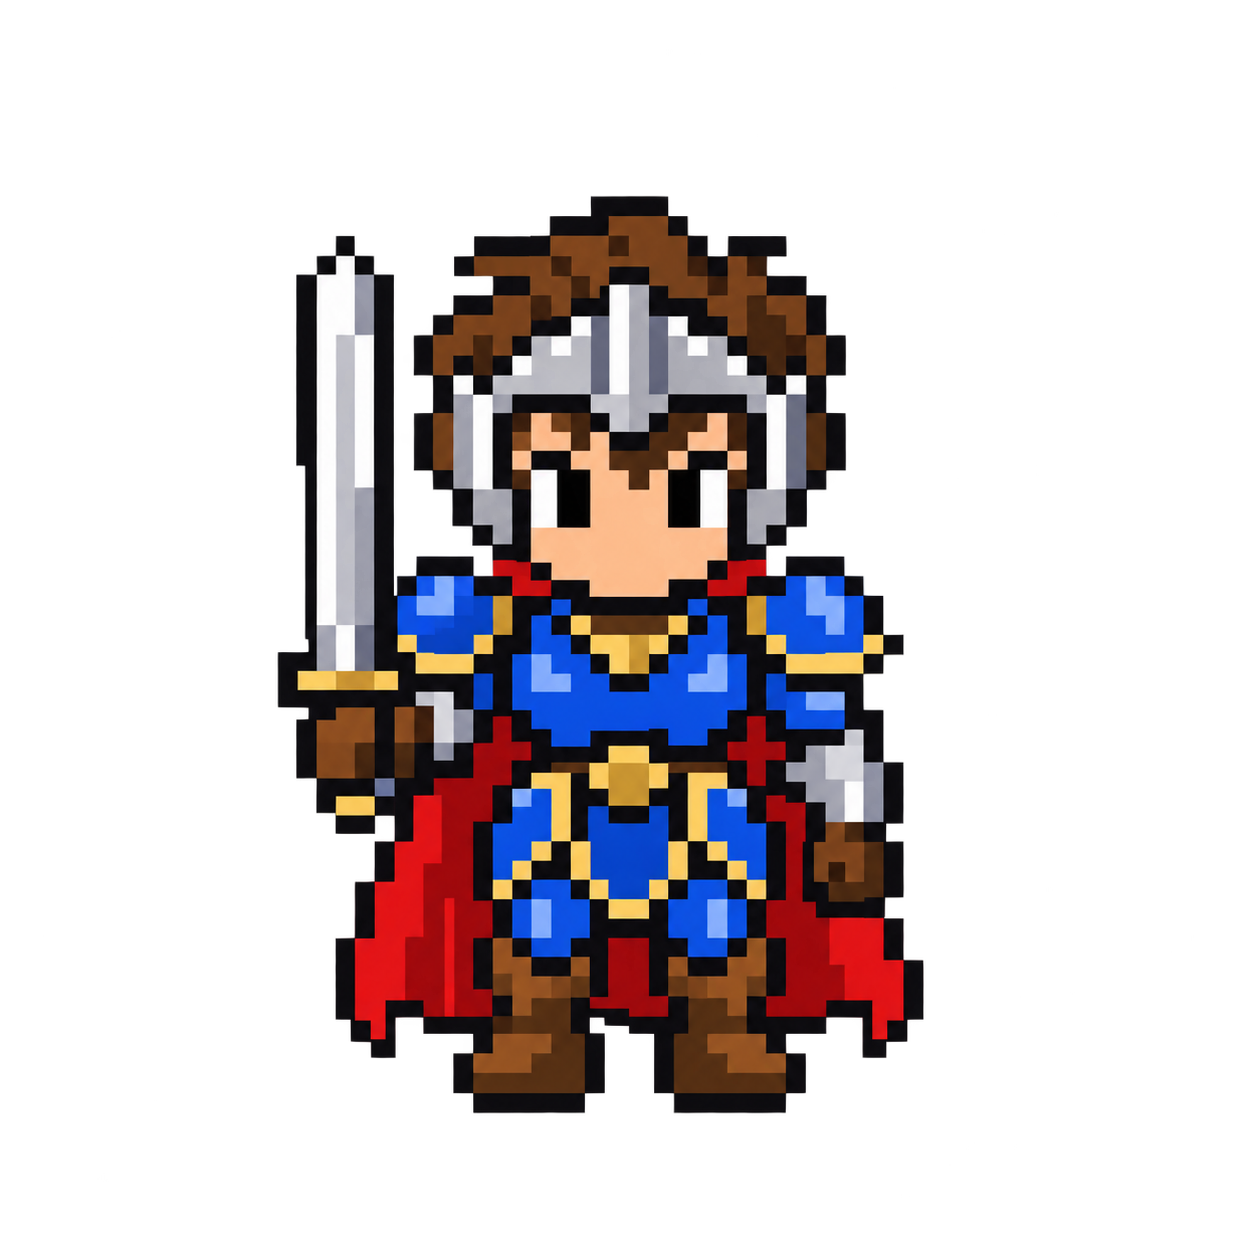
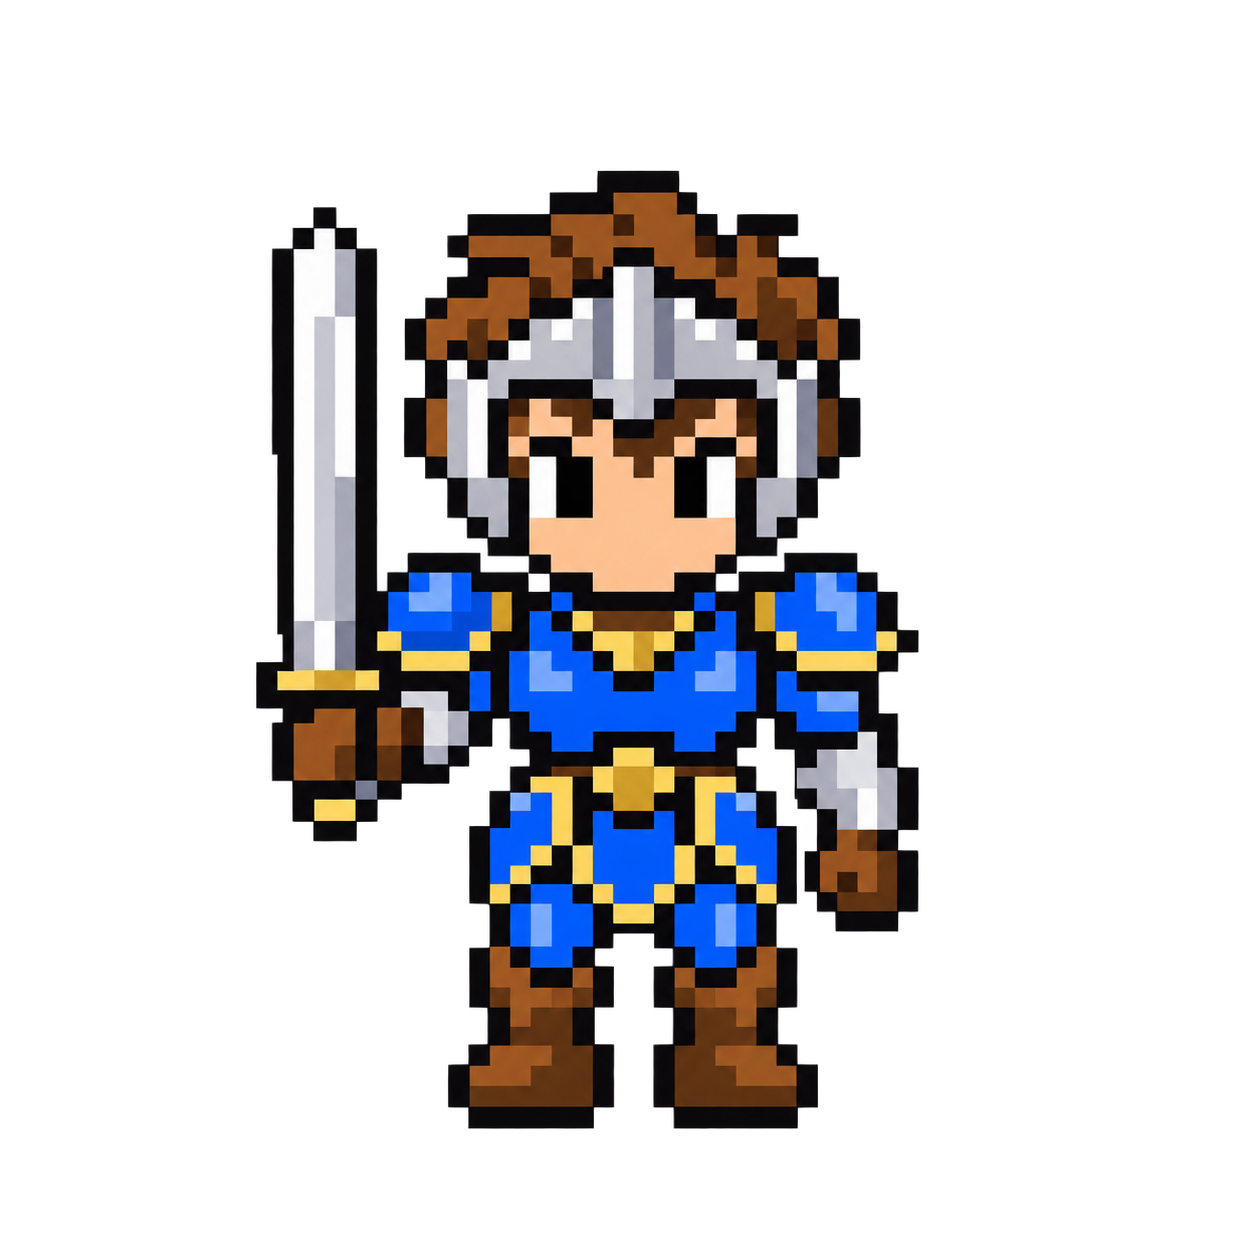
Replace hero with cape-free 40px walk sheet (v0.5.2)

Changed region(s): [[0.1866, 0.1244, 0.7464, 0.9019]]

diff --git a/docs/character-assets.md b/docs/character-assets.md
@@ -1,13 +1,13 @@
-# キャラクター画像の差し替え（v0.5）
+# キャラクター画像の差し替え（v0.5.2）
 
 設定は `assets/characters/catalog.json`。PNGを置き換えるか `texture` を変更し、Godotで再インポートしてWindowsビルドを出力してください。配布EXEの横にPNGを置くだけでは変わりません。
 
 ## 現在の勇者
 
-- 移動：ユーザー自作 `hero-walk-4dir-8frames.png`。1536×1024、1コマ192×256、横8コマ。上から下・上・左・右。
-- 足元 `anchor=[96,236]`、固定倍率 `scale=0.2`。絵の高さは約42pxで、40pxのブロックより少し大きい表示です。攻撃時も拡大しません。
+- 移動：ユーザー自作 `hero-walk-nocape-40-v1.png`。320×160、1コマ40×40、横8コマ。上から下・上・左・右。
+- 足元 `anchor=[20,38]`、固定倍率 `scale=1.25`。絵の高さは約42pxで、40pxのブロックより少し大きい表示です。攻撃時も拡大しません。
 - 8fps、1周期1秒。1マスの移動時間も1秒。カメラは自動追従せず、LBで現在位置へ切り替えます。
-- HUDと到来画面のアイコン：ユーザーの `1st.png` を `hero-portrait.png` として保存。1254×1254の原画を保持し、専用の足元と倍率で表示します。
+- HUDと到来画面のアイコン：ユーザーの `1st_front.png` を `hero-portrait.png` として保存。1254×1254の原画を保持し、専用の足元と倍率で表示します。
 - 攻撃・見回し・喜び・死亡の専用画像は準備中です。現在は新勇者の静止ポーズを使用します。方向別攻撃の向き、斬撃・効果音、分岐での停止、捕獲後の帰還は維持しています。死亡時は仮表示をフェードさせ、骨へ切り替えます。
 
 旧勇者の画像は使用しません。新しい素材のピクセル・透過情報は加工せず保存しています。
@@ -36,3 +36,5 @@
 種類のキーは `sprout`（灯苔）、`beetle`（琥珀虫）、`warden`（石角）、`egg`、`knight`（戦士）、`healer`（回復役）、`heart`（主）。灯苔はユーザー自作 `moss-microbe-32x32.png`、未登録の種類は既存の仮絵アトラスを使用します。
 
 差し替え後は4方向、足元、アイコン、攻撃、死亡から骨への切替を実画面で確認してください。読み込めないパスでは代替の絵が表示されるため、起動できるだけでは差し替え成功と判断できません。
+
+背面の原画 `1st_back.png` は方向・デザインの参考です。ゲーム内の背面歩行は移動シート2行目を使用します。

diff --git a/README.md b/README.md
@@ -1,10 +1,10 @@
 # 深庭 — DEEPGARDEN
 
-Godot 4.7.2 / Windows向け、コントローラー対応の生態系ダンジョン防衛ゲーム。1面試作 v0.5.1（魔物の左向き描画修正版）です。
+Godot 4.7.2 / Windows向け、コントローラー対応の生態系ダンジョン防衛ゲーム。1面試作 v0.5.2（マントなし勇者版）です。
 
 v0.5.1では魔物の左右反転時に絵が消える・ずれる不具合を修正しました。画面左右4か所、魔物4種を実レンダリングで確認しています。
 
-![ゲーム画面](docs/images/v05/battle.png)
+![ゲーム画面](docs/images/v052/battle.png)
 
 自作の新勇者の4方向8コマ歩行とアイコンを導入し、旧画像・未使用描画処理を整理しました。攻撃・見回し・喜び・死亡の専用画像は準備中で、新勇者の仮ポーズを使用しています。[素材の入れ替え方](docs/character-assets.md) / [整理内容と検証](docs/cleanup-v0.5.md)。
 

diff --git a/docs/verification.md b/docs/verification.md
@@ -74,3 +74,7 @@ godot --headless --path . --script res://tests/stress.gd
 ## v0.5 Windows配布確認
 
 Windows releaseのエクスポート成功。配布EXEをheadlessで起動し、正常終了（終了コード0）を確認。対話画面の確認は上記のソース実行時キャプチャで行っています。
+
+## v0.5.2 マントなし勇者（2026-09-14）
+
+320×160・40×40セルの新しい移動シートと正面アイコンを反映。4方向8コマ・8fps・1マス1秒は維持。足元は20,38、倍率1.25（体の高さ約40〜44px）。専用攻撃等は仮ポーズのまま。ロジック54・勇者48・描画設定13・入力画面遷移14項目が成功。画面記録はimages/v052。
